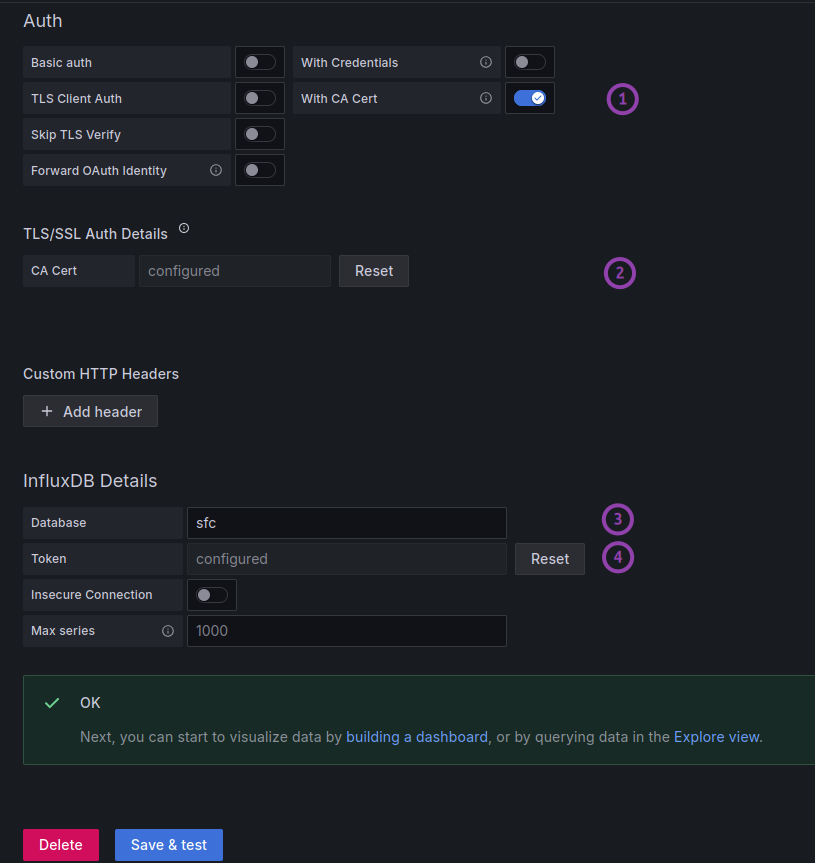
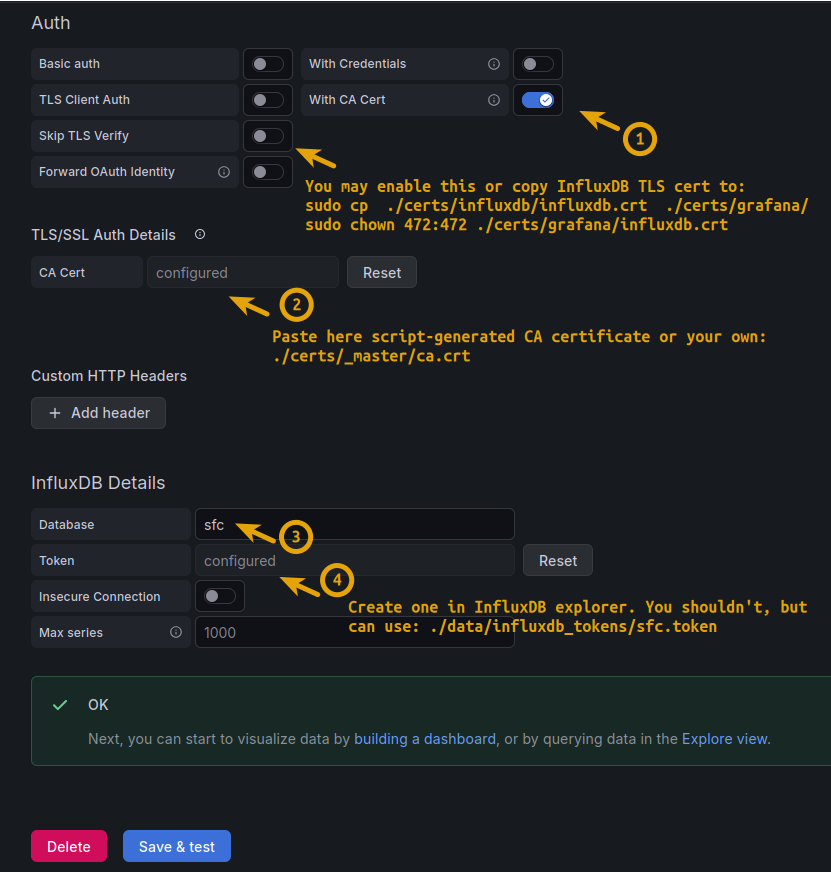
Bump SFC version to v2.2.2

diff --git a/sfc/sfc.py b/sfc/sfc.py
@@ -47,7 +47,7 @@ os.environ["PYTHONWARNINGS"] = "default"
 
 # =============== default vars ================================================
 
-VERSION = '2.2.1'
+VERSION = '2.2.2'
 
 # Create reporting-only admin user with read-only access to the SolidFire API.
 # Modify these five variables to match your environment if you want hardcoded

diff --git a/CHANGELOG.md b/CHANGELOG.md
@@ -1,6 +1,7 @@
 # Change Log
 
 - [Change Log](#change-log)
+  - [Changes in v2.2.2](#changes-in-v222)
   - [Changes in v2.2.1](#changes-in-v221)
   - [Changes in v2.2.0](#changes-in-v220)
   - [Changes in v2.1.1](#changes-in-v211)
@@ -15,6 +16,10 @@
   - [Changes in .3](#changes-in-3)
   - [Changes in .v2](#changes-in-v2)
   - [Changes in .v1](#changes-in-v1)
+
+## Changes in v2.2.2
+
+- Update 3rd party dependency (`aiohttp`) to 3.14.1
 
 ## Changes in v2.2.1
 

diff --git a/BUILD.md b/BUILD.md
@@ -44,7 +44,7 @@ Each Dockerfile declares `ARG` variables with defaults:
 
 ```dockerfile
 # s3/Dockerfile
-ARG VERSITY_S3GW_VERSION=1.4.0
+ARG VERSITY_S3GW_VERSION=1.5.0
 
 # influxdb/Dockerfile  
 ARG INFLUXDB3_BUILD_VERSION=3.9.0